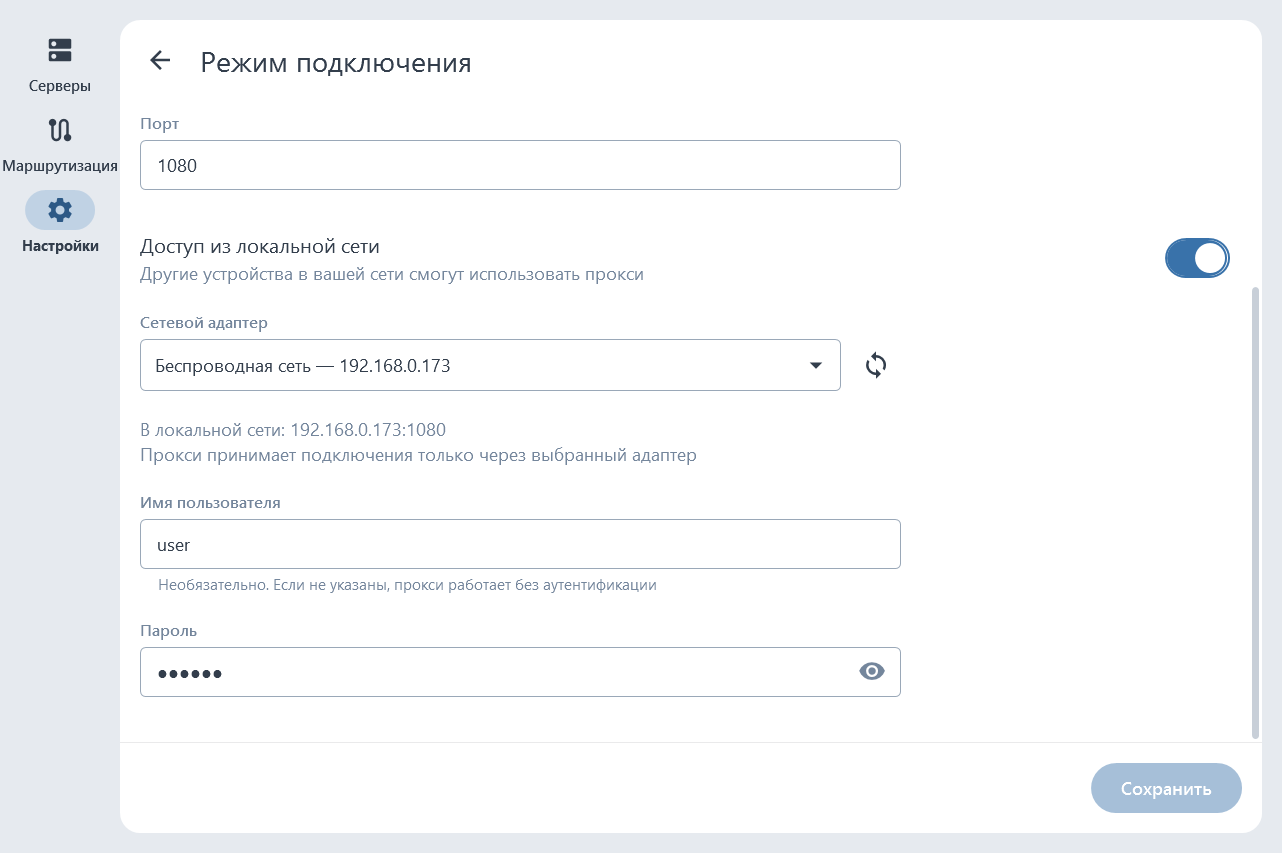
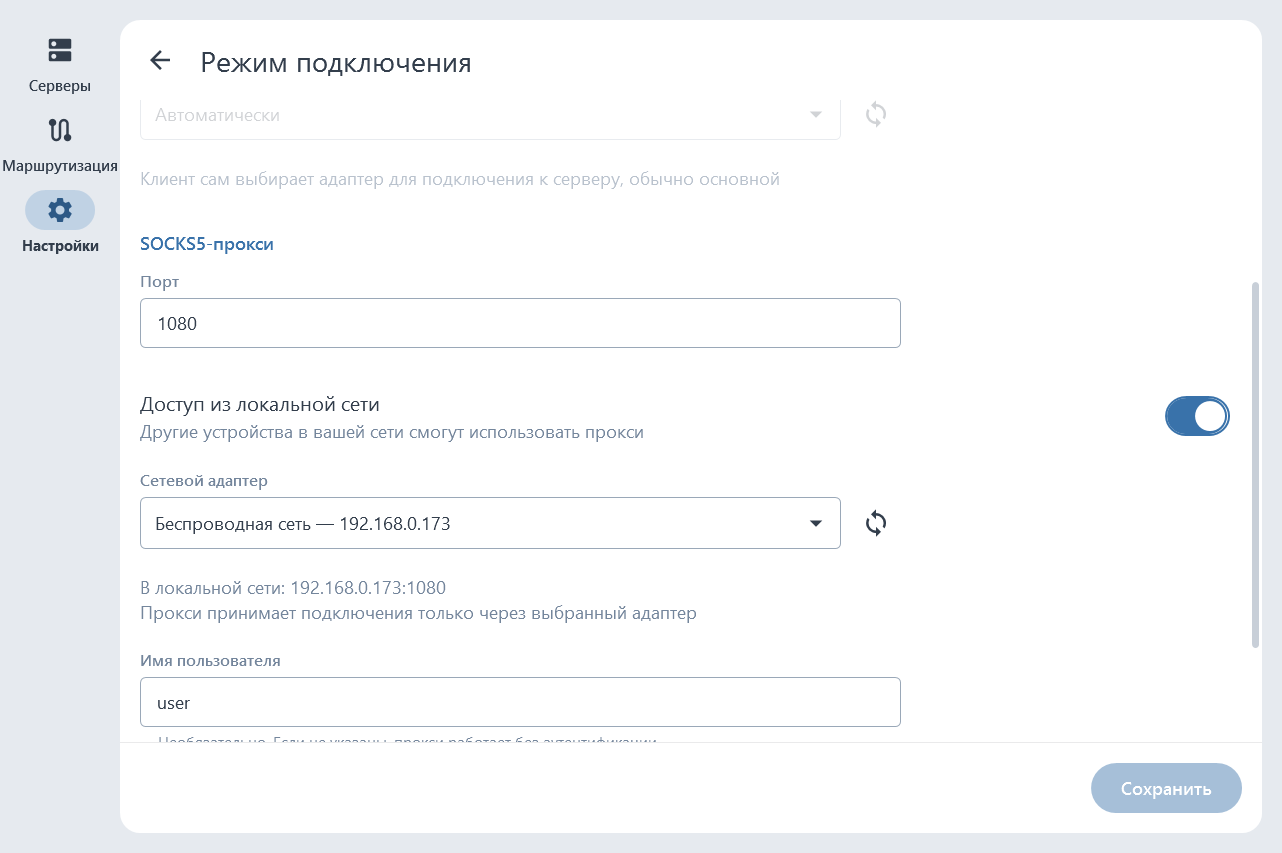
Add outbound adapter selection for TUN mode (bound_if)
The connection mode screen lets the user pick the adapter the client
uses to reach the server. Only adapters with an IPv4 gateway are listed;
the interface index is resolved on every connection and passed as
bound_if. A missing adapter blocks the connection with a clear message.

Also stop package.ps1 from wiping the whole dist\portable folder: only
the version being built is replaced, and a portable copy that has been
run (has a data folder) is never deleted.

Version 1.2.0.

diff --git a/src/Pages.cs b/src/Pages.cs
@@ -1020,6 +1020,10 @@ namespace TrustTunnelGui
         readonly TextBlock _lanInfo = UI.BodyMedium("", C.NeutralDark);
         readonly DropdownField _adapter = new DropdownField(L.SocksAdapter);
         readonly FrameworkElement _adapterPanel;
+        readonly StackPanel _tunPanel = new StackPanel();
+        readonly DropdownField _tunAdapter = new DropdownField(L.TunAdapter);
+        readonly TextBlock _tunInfo = UI.BodyMedium("", C.NeutralDark);
+        List<NetAdapter> _outbound = new List<NetAdapter>();
         readonly Button _save;
         List<NetAdapter> _adapters = new List<NetAdapter>();
         System.Windows.Controls.Primitives.ToggleButton _lan;
@@ -1037,6 +1041,24 @@ namespace TrustTunnelGui
             _socks = Tiles.Radio(L.ModeSocks, L.ModeSocksDescription, "listener", s.IsSocks, delegate { Update(); });
             list.Children.Add(_tun);
             list.Children.Add(_socks);
+
+            // TUN: adapter used for the connection to the server (bound_if).
+            _tunPanel.Children.Add(Tiles.Section(L.ModeTun));
+            var tunForm = new StackPanel { Margin = new Thickness(16, 8, 16, 0) };
+            var tunRow = new DockPanel();
+            var tunRefresh = UI.IconButton(Icons.Update, L.RefreshAdapters, delegate { LoadOutbound(_tunAdapter.SelectedKey); Update(); });
+            tunRefresh.VerticalAlignment = VerticalAlignment.Bottom;
+            tunRefresh.Margin = new Thickness(8, 0, 0, 21);
+            DockPanel.SetDock(tunRefresh, Dock.Right);
+            tunRow.Children.Add(tunRefresh);
+            tunRow.Children.Add(_tunAdapter);
+            tunForm.Children.Add(tunRow);
+            _tunPanel.Children.Add(UI.MaxWidthLeft(tunForm, 640));
+            _tunInfo.Margin = new Thickness(16, 0, 16, 12);
+            _tunPanel.Children.Add(_tunInfo);
+            list.Children.Add(_tunPanel);
+            LoadOutbound(s.TunAdapterId);
+            _tunAdapter.Changed += Update;
 
             _socksPanel.Children.Add(Tiles.Section(L.SocksSection));
             var form = new StackPanel { Margin = new Thickness(16, 8, 16, 0) };
@@ -1097,10 +1119,24 @@ namespace TrustTunnelGui
             _adapter.SetItems(items, selectedId ?? "");
         }
 
+        void LoadOutbound(string selectedId)
+        {
+            _outbound = Net.OutboundAdapters();
+            var items = new List<KeyValuePair<string, string>> { new KeyValuePair<string, string>("", L.TunAdapterAuto) };
+            items.AddRange(_outbound.Select(a => new KeyValuePair<string, string>(a.Id, a.Label)));
+            var saved = App.I.Store.Data.Settings;
+            if (!string.IsNullOrEmpty(selectedId) && _outbound.All(a => a.Id != selectedId))
+            {
+                var name = selectedId == saved.TunAdapterId && saved.TunAdapterName.Length > 0 ? saved.TunAdapterName : selectedId;
+                items.Add(new KeyValuePair<string, string>(selectedId, string.Format(L.AdapterUnavailableItem, name)));
+            }
+            _tunAdapter.SetItems(items, selectedId ?? "");
+        }
+
         string Snapshot()
         {
-            return string.Join("\u0001", _socks.IsChecked == true ? "socks" : "tun", _port.Value, _lan != null && _lan.IsChecked == true ? "1" : "0",
-                _adapter.SelectedKey ?? "", _username.Value, _password.Value);
+            return string.Join("\u0001", _socks.IsChecked == true ? "socks" : "tun", _tunAdapter.SelectedKey ?? "", _port.Value,
+                _lan != null && _lan.IsChecked == true ? "1" : "0", _adapter.SelectedKey ?? "", _username.Value, _password.Value);
         }
 
         public override bool IsDirty { get { return Snapshot() != _initial; } }
@@ -1111,6 +1147,11 @@ namespace TrustTunnelGui
             bool socks = _socks.IsChecked == true;
             _socksPanel.IsEnabled = socks;
             _socksPanel.Opacity = socks ? 1 : 0.5;
+            _tunPanel.IsEnabled = !socks;
+            _tunPanel.Opacity = socks ? 0.5 : 1;
+            var tunKey = _tunAdapter.SelectedKey ?? "";
+            if (tunKey.Length == 0) _tunInfo.Text = L.TunAdapterAutoHint;
+            else _tunInfo.Text = _outbound.Any(a => a.Id == tunKey) ? L.TunAdapterHint : L.TunAdapterUnavailable;
             bool lan = _lan.IsChecked == true;
             _adapterPanel.Visibility = lan ? Visibility.Visible : Visibility.Collapsed;
             int port;
@@ -1157,6 +1198,10 @@ namespace TrustTunnelGui
 
             var s = App.I.Store.Data.Settings;
             s.ListenerMode = socks ? "socks" : "tun";
+            var tunId = _tunAdapter.SelectedKey ?? "";
+            var tunAdapter = _outbound.FirstOrDefault(a => a.Id == tunId);
+            if (tunId != s.TunAdapterId || tunAdapter != null) s.TunAdapterName = tunAdapter != null ? tunAdapter.Name : "";
+            s.TunAdapterId = tunId;
             if (portOk) s.SocksPort = port;
             s.SocksAllowLan = _lan.IsChecked == true;
             var adapterId = _adapter.SelectedKey ?? "";
@@ -1180,6 +1225,8 @@ namespace TrustTunnelGui
         public string Description;
         public string Ip;
         public bool IsVirtual;
+        public int Index;        // IPv4 interface index, as in "route print"
+        public bool HasGateway;  // can reach the internet on its own
 
         public string Label { get { return Name + " — " + Ip; } }
     }
@@ -1202,6 +1249,9 @@ namespace TrustTunnelGui
                         .Select(a => a.Address)
                         .FirstOrDefault(a => a.AddressFamily == System.Net.Sockets.AddressFamily.InterNetwork && !a.ToString().StartsWith("169.254."));
                     if (ip == null) continue;
+                    var props = nic.GetIPProperties();
+                    int index = 0;
+                    try { var v4 = props.GetIPv4Properties(); if (v4 != null) index = v4.Index; } catch { }
                     result.Add(new NetAdapter
                     {
                         Id = nic.Id,
@@ -1209,12 +1259,27 @@ namespace TrustTunnelGui
                         Description = nic.Description,
                         Ip = ip.ToString(),
                         IsVirtual = nic.Description.IndexOf("virtual", StringComparison.OrdinalIgnoreCase) >= 0 ||
-                                    nic.Description.IndexOf("hyper-v", StringComparison.OrdinalIgnoreCase) >= 0
+                                    nic.Description.IndexOf("hyper-v", StringComparison.OrdinalIgnoreCase) >= 0,
+                        Index = index,
+                        HasGateway = props.GatewayAddresses.Any(g =>
+                            g.Address.AddressFamily == System.Net.Sockets.AddressFamily.InterNetwork && !g.Address.Equals(System.Net.IPAddress.Any))
                     });
                 }
             }
             catch { }
             return result;
+        }
+
+        // Adapters that can carry the tunnel to the server (have an IPv4 gateway and an interface index).
+        public static List<NetAdapter> OutboundAdapters()
+        {
+            return Adapters().Where(a => a.HasGateway && a.Index > 0).ToList();
+        }
+
+        public static int? OutboundIndex(string id)
+        {
+            var adapter = OutboundAdapters().FirstOrDefault(a => a.Id == id);
+            return adapter == null ? (int?)null : adapter.Index;
         }
 
         public static string AdapterIp(string id)

diff --git a/src/Strings.cs b/src/Strings.cs
@@ -146,6 +146,11 @@ namespace TrustTunnelGui
         public static string SocksAuthHelper = "Необязательно. Если не указаны, прокси работает без аутентификации";
         public static string SocksAuthPair = "Укажите и имя пользователя, и пароль";
         public static string SocksLanNoAuth = "Без пароля прокси сможет использовать любое устройство в сети";
+        public static string TunAdapter = "Исходящий адаптер";
+        public static string TunAdapterAuto = "Автоматически";
+        public static string TunAdapterAutoHint = "Клиент сам выбирает адаптер для подключения к серверу, обычно основной";
+        public static string TunAdapterHint = "Подключение к серверу всегда идёт через выбранный адаптер";
+        public static string TunAdapterUnavailable = "Выбранный исходящий адаптер отключён или не имеет шлюза. Подключите его или выберите «Автоматически» в настройках режима подключения";
         public static string SocksAdapter = "Сетевой адаптер";
         public static string SocksAdapterAll = "Все адаптеры";
         public static string SocksAdapterAllHint = "Прокси принимает подключения на всех сетевых адаптерах";
@@ -268,6 +273,10 @@ namespace TrustTunnelGui
             { "SocksAuthHelper", "Optional. Without them the proxy accepts connections without authentication" },
             { "SocksAuthPair", "Set both username and password" },
             { "SocksLanNoAuth", "Without a password any device on the network can use the proxy" },
+            { "TunAdapter", "Outbound adapter" }, { "TunAdapterAuto", "Automatic" },
+            { "TunAdapterAutoHint", "The client picks the adapter for the server connection itself, usually the main one" },
+            { "TunAdapterHint", "The connection to the server always goes through the selected adapter" },
+            { "TunAdapterUnavailable", "The selected outbound adapter is disconnected or has no gateway. Connect it or choose Automatic in the connection mode settings" },
             { "SocksAdapter", "Network adapter" }, { "SocksAdapterAll", "All adapters" },
             { "SocksAdapterAllHint", "The proxy accepts connections on every network adapter" },
             { "SocksAdapterHint", "The proxy accepts connections only through the selected adapter" },

diff --git a/src/DevTools.cs b/src/DevTools.cs
@@ -104,6 +104,20 @@ namespace TrustTunnelGui
             lan.SocksAdapterId = "{00000000-0000-0000-0000-000000000000}";
             sb.AppendLine("lan gone adapter: " + lan.SocksAddress + " missing=" + lan.SocksAdapterMissing);
 
+            // TUN outbound adapter (bound_if).
+            foreach (var a in Net.OutboundAdapters()) sb.AppendLine("outbound: " + a.Label + " index=" + a.Index);
+            var tun = new AppSettings();
+            sb.AppendLine("tun auto: bound_if=\"" + tun.TunBoundInterface + "\" missing=" + tun.TunAdapterMissing);
+            var outbound = Net.OutboundAdapters().FirstOrDefault();
+            if (outbound != null)
+            {
+                tun.TunAdapterId = outbound.Id;
+                var tunCfg = ConfigBuilder.Build(local, profile, tun);
+                sb.AppendLine("tun adapter: " + tunCfg.Split('\n').First(l => l.StartsWith("bound_if")).Trim() + " missing=" + tun.TunAdapterMissing);
+            }
+            tun.TunAdapterId = "{00000000-0000-0000-0000-000000000000}";
+            sb.AppendLine("tun gone adapter: missing=" + tun.TunAdapterMissing + " bound_if=" + (tun.TunBoundInterface ?? "null"));
+
             var back = ServerImport.FromClientConfig(cfg);
             sb.AppendLine("roundtrip: address=" + back.Address + " pass=" + back.Password + " proto=" + back.Protocol + " cr=" + back.ClientRandom + " cert=" + back.Certificate.Replace("\n", "\\n"));
             sb.AppendLine("valid addr: " + string.Join(",", new[] { "1.2.3.4", "1.2.3.4:443", "vpn.example.com", "vpn.example.com:8443", "::1", "[::1]:443", "bad host", "1.2.3.4:99999" }.Select(a => a + "=" + Validation.IsAddress(a))));

diff --git a/src/Model.cs b/src/Model.cs
@@ -106,6 +106,28 @@ namespace TrustTunnelGui
         public string SocksAdapterId = "";
         public string SocksAdapterName = "";
 
+        // TUN mode: adapter the client uses to reach the server (bound_if); empty = detected by the client.
+        public string TunAdapterId = "";
+        public string TunAdapterName = "";
+
+        // Interface index for bound_if, "" for automatic; null when the chosen adapter is unavailable.
+        [ScriptIgnore]
+        public string TunBoundInterface
+        {
+            get
+            {
+                if (string.IsNullOrEmpty(TunAdapterId)) return "";
+                var index = Net.OutboundIndex(TunAdapterId);
+                return index.HasValue ? index.Value.ToString(CultureInfo.InvariantCulture) : null;
+            }
+        }
+
+        [ScriptIgnore]
+        public bool TunAdapterMissing
+        {
+            get { return !IsSocks && !string.IsNullOrEmpty(TunAdapterId) && TunBoundInterface == null; }
+        }
+
         [ScriptIgnore]
         public bool SocksAdapterMissing
         {
@@ -278,7 +300,8 @@ namespace TrustTunnelGui
                 return sb.ToString();
             }
             sb.AppendLine("[listener.tun]");
-            Kv(sb, "bound_if", Str(""));
+            // On Windows bound_if accepts the interface index (as shown by "route print") as a string.
+            Kv(sb, "bound_if", Str(settings.TunBoundInterface ?? ""));
             Kv(sb, "included_routes", List(Defaults.IncludedRoutes));
             Kv(sb, "excluded_routes", List(settings.ExcludedRoutes));
             Kv(sb, "mtu_size", Defaults.Mtu.ToString(CultureInfo.InvariantCulture));

diff --git a/src/App.cs b/src/App.cs
@@ -20,8 +20,8 @@ using WinForms = System.Windows.Forms;
 
 [assembly: AssemblyTitle("TrustTunnel GUI")]
 [assembly: AssemblyProduct("TrustTunnel GUI")]
-[assembly: AssemblyVersion("1.1.0.0")]
-[assembly: AssemblyFileVersion("1.1.0.0")]
+[assembly: AssemblyVersion("1.2.0.0")]
+[assembly: AssemblyFileVersion("1.2.0.0")]
 
 namespace TrustTunnelGui
 {
@@ -294,6 +294,11 @@ namespace TrustTunnelGui
             if (Store.Data.Settings.SocksAdapterMissing)
             {
                 OnVpnFailed(L.AdapterUnavailable);
+                return;
+            }
+            if (Store.Data.Settings.TunAdapterMissing)
+            {
+                OnVpnFailed(L.TunAdapterUnavailable);
                 return;
             }
             // TUN needs an elevated client; SOCKS mode works with normal rights.

diff --git a/installer/Setup.cs b/installer/Setup.cs
@@ -17,8 +17,8 @@ using TrustTunnelGui;
 
 [assembly: AssemblyTitle("TrustTunnel GUI Setup")]
 [assembly: AssemblyProduct("TrustTunnel GUI")]
-[assembly: AssemblyVersion("1.1.0.0")]
-[assembly: AssemblyFileVersion("1.1.0.0")]
+[assembly: AssemblyVersion("1.2.0.0")]
+[assembly: AssemblyFileVersion("1.2.0.0")]
 
 namespace TrustTunnelSetup
 {

diff --git a/README.md b/README.md
@@ -10,7 +10,7 @@
 </p>
 
 <p align="center">
-  <img src="docs/badges/version.svg" alt="version 1.1.0">
+  <img src="docs/badges/version.svg" alt="version 1.2.0">
   <img src="docs/badges/windows.svg" alt="Windows 10 | 11">
   <img src="docs/badges/dotnet.svg" alt=".NET Framework 4.8">
   <img src="docs/badges/license.svg" alt="license Apache-2.0">
@@ -61,8 +61,8 @@
 
 | Вариант | Файл | Для чего |
 |---|---|---|
-| **Установщик** | `TrustTunnelGUI-1.1.0-setup.exe` | Установка в `Program Files`, ярлыки, удаление через «Установленные приложения». Настройки — в `%APPDATA%\TrustTunnelGUI`. |
-| **Portable** | `TrustTunnelGUI-1.1.0-portable.zip` | Распаковать в любую папку и запустить `TrustTunnelGUI.exe`. Настройки и журналы — в папке `data` рядом с программой. |
+| **Установщик** | `TrustTunnelGUI-1.2.0-setup.exe` | Установка в `Program Files`, ярлыки, удаление через «Установленные приложения». Настройки — в `%APPDATA%\TrustTunnelGUI`. |
+| **Portable** | `TrustTunnelGUI-1.2.0-portable.zip` | Распаковать в любую папку и запустить `TrustTunnelGUI.exe`. Настройки и журналы — в папке `data` рядом с программой. |
 
 Нужна Windows 10 или 11 (x64); .NET Framework 4.8 уже входит в систему.
 
@@ -74,7 +74,7 @@
 Установщик поддерживает тихий режим для автоматизации:
 
 ```bat
-TrustTunnelGUI-1.1.0-setup.exe --silent
+TrustTunnelGUI-1.2.0-setup.exe --silent
 "C:\Program Files\TrustTunnel GUI\uninstall.exe" --uninstall --silent
 ```
 
@@ -100,11 +100,14 @@ TrustTunnelGUI-1.1.0-setup.exe --silent
 | Настройка приложений | не требуется | указать `127.0.0.1:1080` (порт меняется) в настройках прокси |
 | Другие устройства в сети | — | по желанию: на всех адаптерах или только на выбранном, с логином и паролем |
 | Исключённые маршруты, DNS системы | применяются | не применяются |
+| Выбор сетевого адаптера | исходящий: через какой адаптер идти к серверу | входящий: на каком адаптере принимать подключения |
 
 <p align="center">
   <img src="docs/screenshots/connection-mode.png" width="49%" alt="Режим подключения">
   <img src="docs/screenshots/servers-socks.png" width="49%" alt="Адрес прокси на экране серверов">
 </p>
+
+**Исходящий адаптер (TUN).** Если у компьютера несколько выходов в интернет (например, Ethernet и Wi-Fi или LTE-модем), в блоке *VPN (TUN)* можно выбрать, через какой из них клиент подключается к серверу. При подключении GUI передаёт клиенту индекс этого интерфейса в параметре `bound_if`. В списке только адаптеры со шлюзом. Значение «Автоматически» оставляет выбор клиенту.
 
 **Выбор сетевого адаптера.** Если в компьютере несколько адаптеров (например, Ethernet в домашней сети, Wi-Fi
 в гостевой и виртуальный Hyper-V), прокси можно открыть только на одном из них. Для этого в списке
@@ -197,10 +200,10 @@ scripts\build.cmd
 ```
 dist/
 ├── portable/
-│   ├── TrustTunnelGUI-1.1.0-portable/      готовая к запуску папка
-│   └── TrustTunnelGUI-1.1.0-portable.zip
+│   ├── TrustTunnelGUI-1.2.0-portable/      готовая к запуску папка
+│   └── TrustTunnelGUI-1.2.0-portable.zip
 └── installer/
-    └── TrustTunnelGUI-1.1.0-setup.exe
+    └── TrustTunnelGUI-1.2.0-setup.exe
 ```
 
 Отладочная сборка `scripts\build.cmd -Dev` создаёт `dist\dev\TrustTunnelGUI.dev.exe` с самотестами:

diff --git a/CHANGELOG.md b/CHANGELOG.md
@@ -1,5 +1,11 @@
 # Changelog
 
+## 1.2.0
+
+### Добавлено
+- Выбор исходящего адаптера для режима VPN (TUN): подключение к серверу идёт через выбранный адаптер (параметр клиента `bound_if`).
+  В списке только адаптеры со шлюзом; если выбранный адаптер недоступен, подключение не запускается.
+
 ## 1.1.0
 
 ### Добавлено
